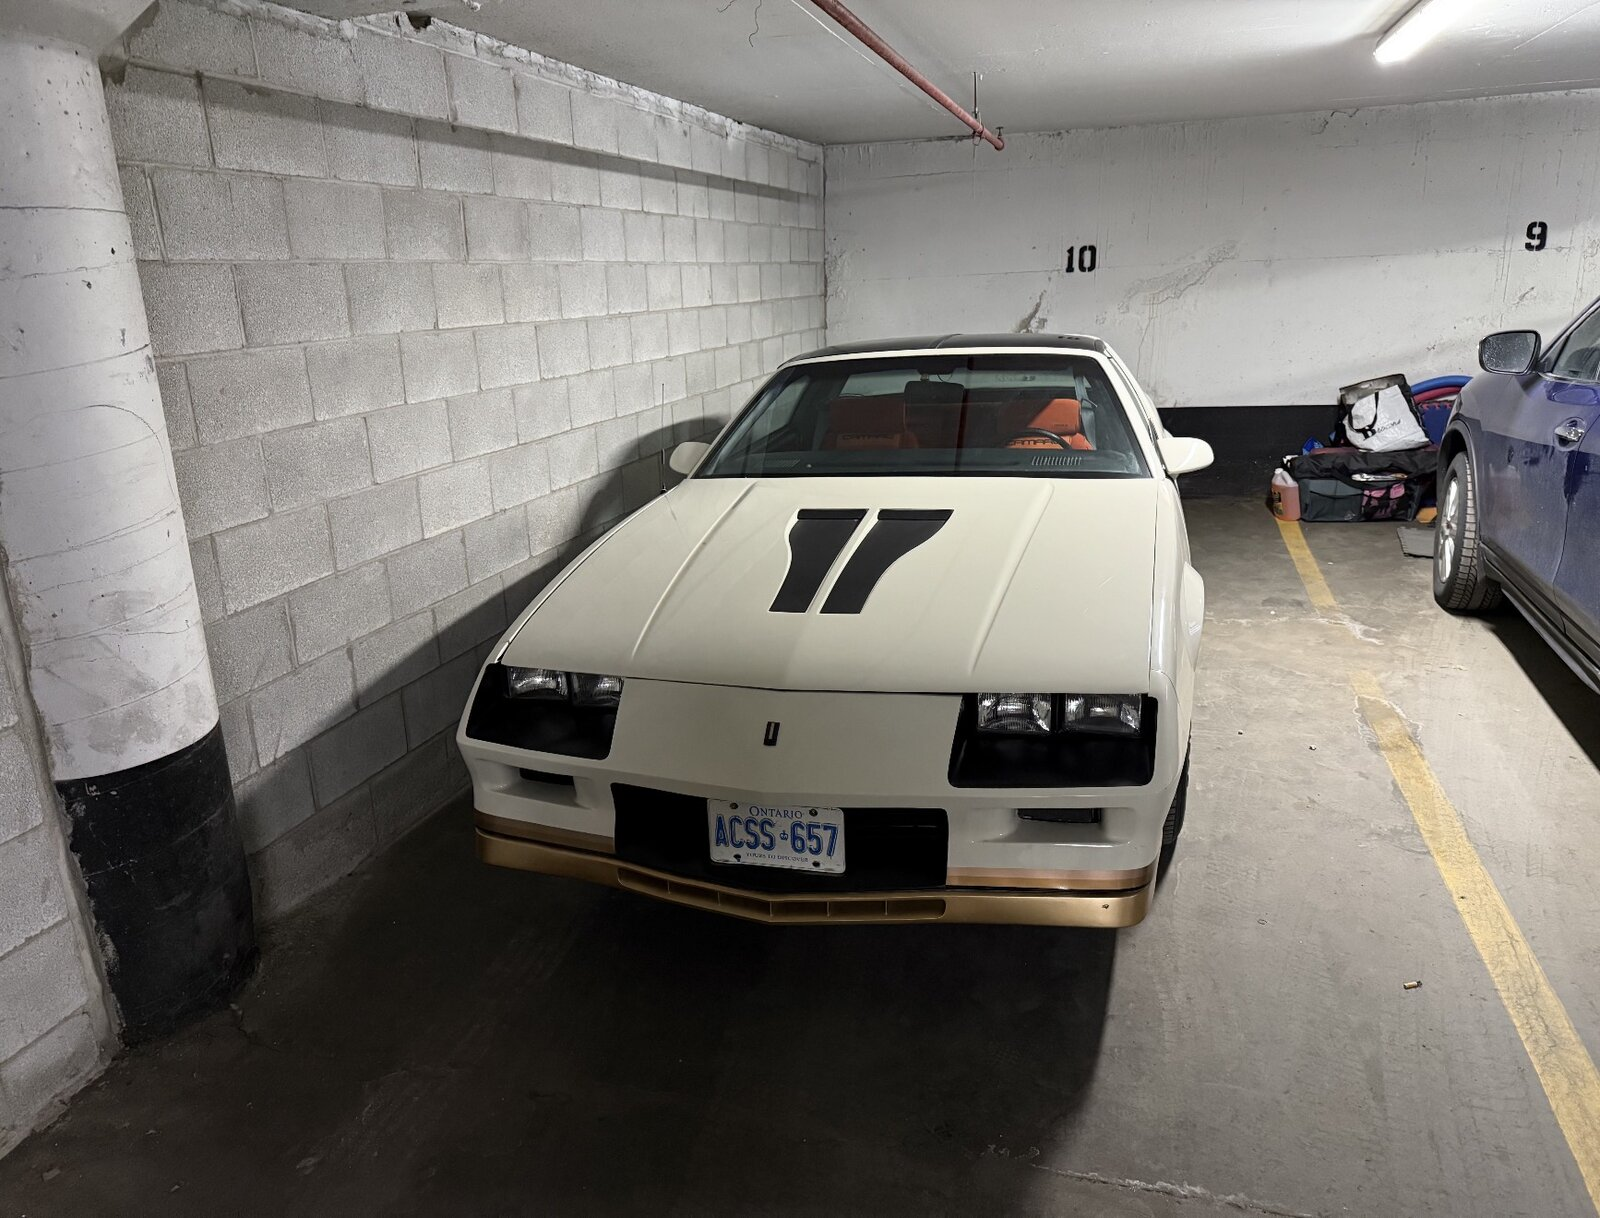
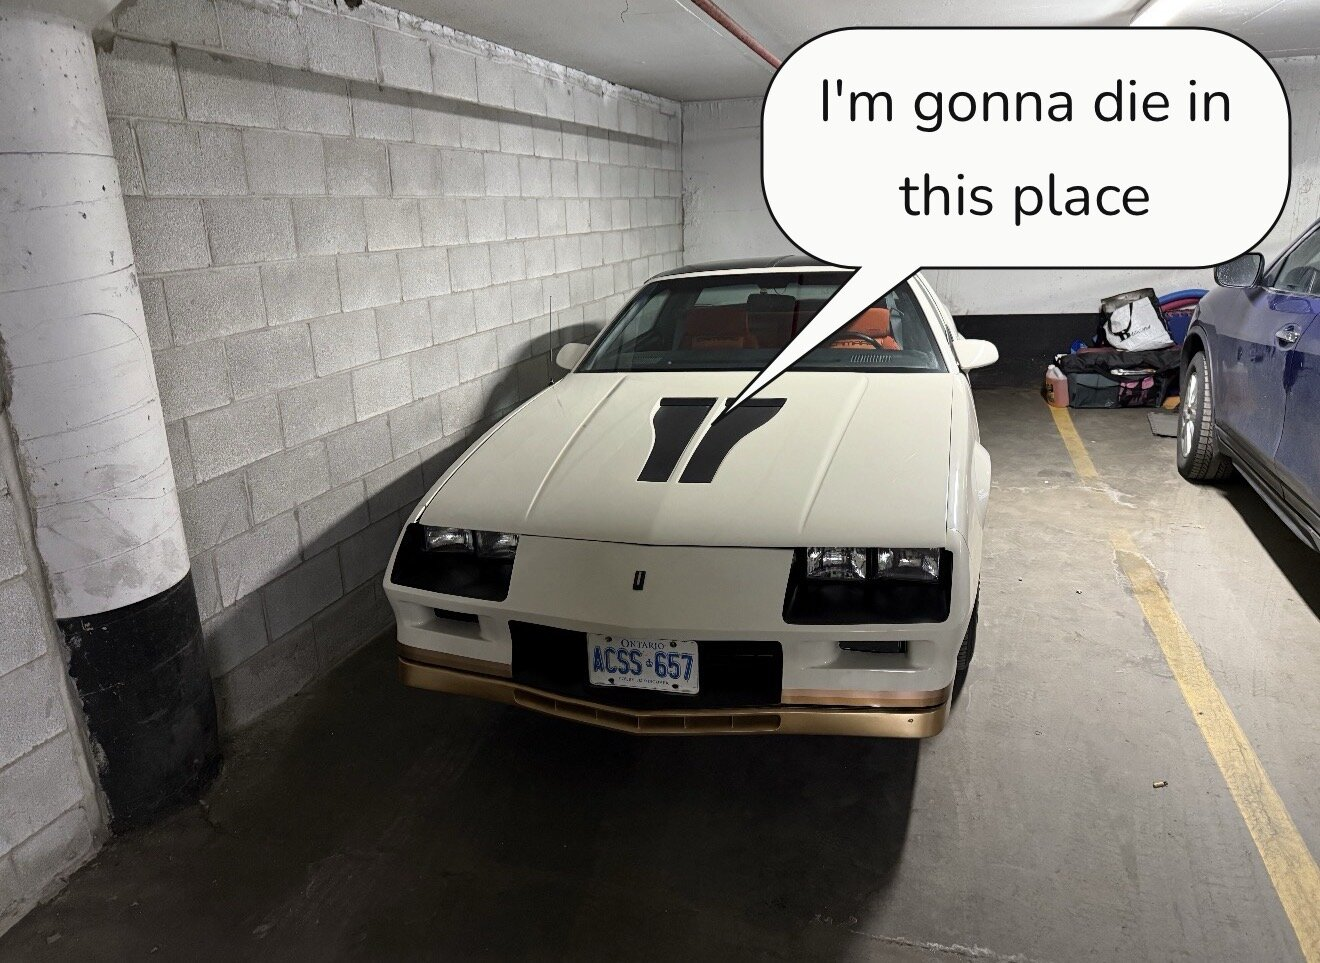
Logs Apr 19: replace underground photo with speech-bubble version

diff --git a/simple-site/logs/index.html b/simple-site/logs/index.html
@@ -291,9 +291,9 @@
         <div class="log-clear"></div>
         <img
           class="log-photo-wide zoomable"
-          src="../assets/logs/2025-04-19-03.jpg?v=1"
-          data-full="../assets/logs/2025-04-19-03.jpg?v=1"
-          alt="Jenny parked underground — tap to enlarge"
+          src="../assets/logs/2025-04-19-03.jpg?v=2"
+          data-full="../assets/logs/2025-04-19-03.jpg?v=2"
+          alt="Jenny parked underground — I'm gonna die in this place — tap to enlarge"
           width="1600"
           height="1200"
         />
